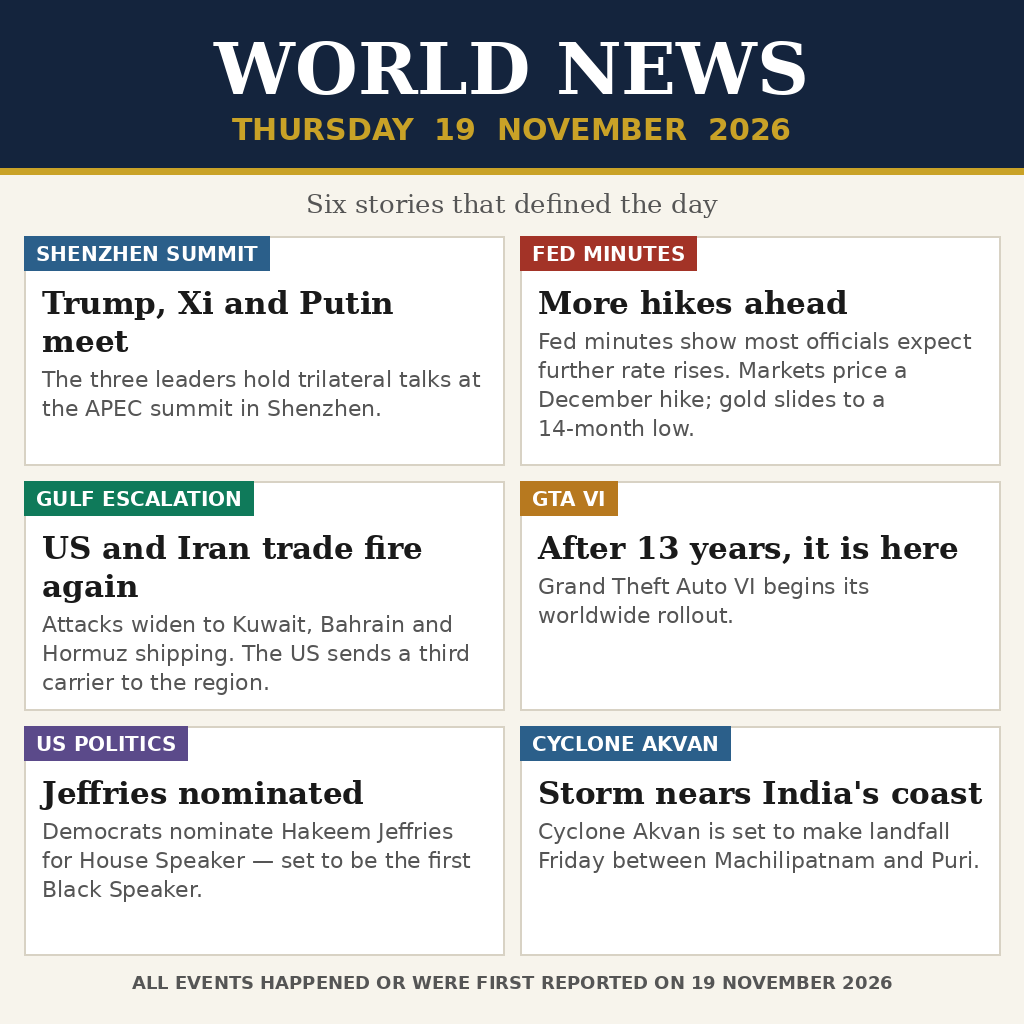
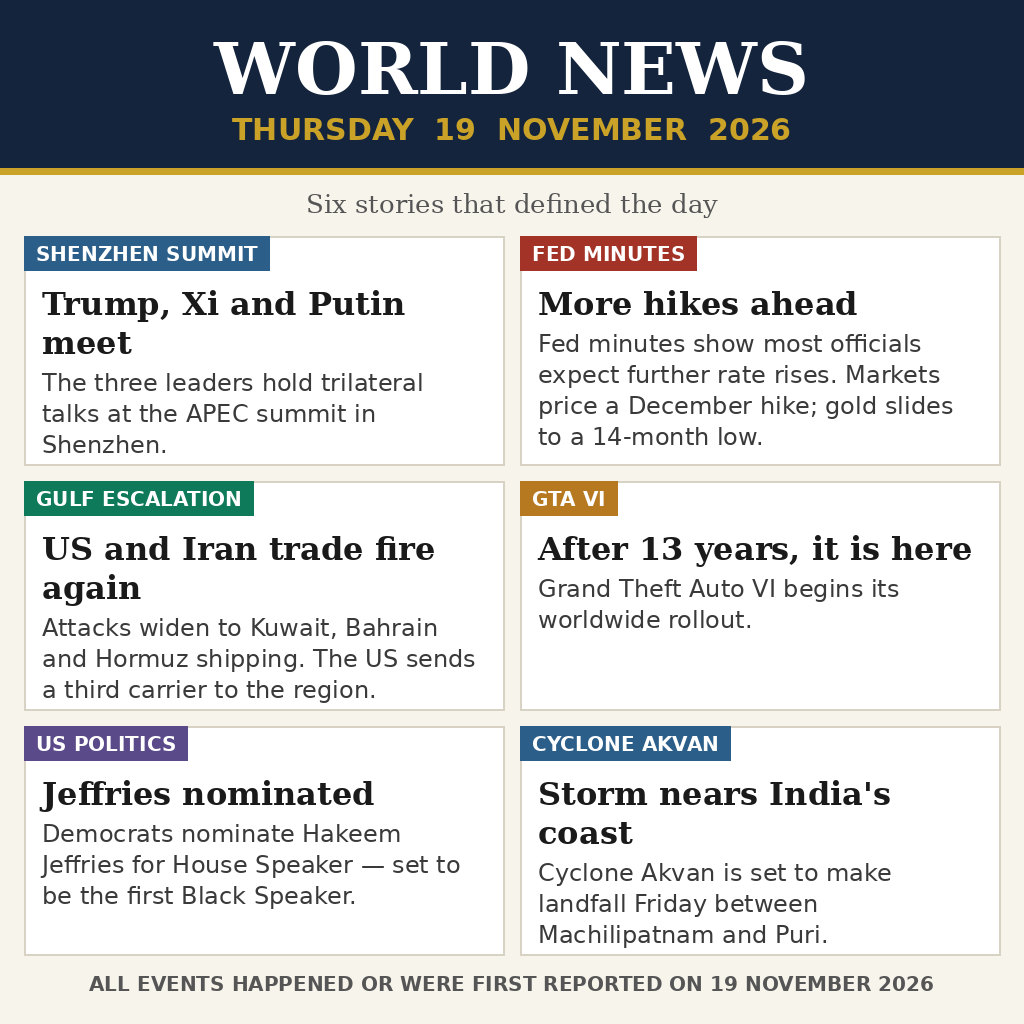
Improve legibility at small sizes: larger, darker body text (22->24px, #555->#3a3a3a), headline 31->32px, footer 18->20px; all panels verified to fit

diff --git a/generate_image.py b/generate_image.py
@@ -70,19 +70,20 @@ def draw_panel(draw, x, y, w, h, kicker, colour, headline, body):
     draw.rectangle([x, y, x + tag_w, y + 34], fill=colour)
     draw.text((x + 12, y + 6), kicker, font=kf, fill=(255, 255, 255))
     # headline
-    hf = ImageFont.truetype(SERIF_BOLD, 31)
+    hf = ImageFont.truetype(SERIF_BOLD, 32)
     lines = wrap(draw, headline, hf, w - 36)
     ty = y + 48
     for line in lines:
         draw.text((x + 18, ty), line, font=hf, fill=INK)
-        ty += 38
-    # body
-    bf = ImageFont.truetype(SANS, 22)
+        ty += 39
+    # body — larger and darker than the first draft so it stays readable
+    # when the judge views the image at ~300px
+    bf = ImageFont.truetype(SANS, 24)
     blines = wrap(draw, body, bf, w - 36)
     ty += 6
     for line in blines:
-        draw.text((x + 18, ty), line, font=bf, fill=MUTED)
-        ty += 29
+        draw.text((x + 18, ty), line, font=bf, fill=(58, 58, 58))
+        ty += 31
 
 
 def main():
@@ -118,7 +119,7 @@ def main():
         draw_panel(draw, x, y, col_w, row_h, kicker, colour, headline, body)
 
     # Footer
-    foot_f = ImageFont.truetype(SANS_BOLD, 18)
+    foot_f = ImageFont.truetype(SANS_BOLD, 20)
     draw.text((512, 972),
               "ALL EVENTS HAPPENED OR WERE FIRST REPORTED ON 19 NOVEMBER 2026",
               font=foot_f, fill=MUTED, anchor="ma")
